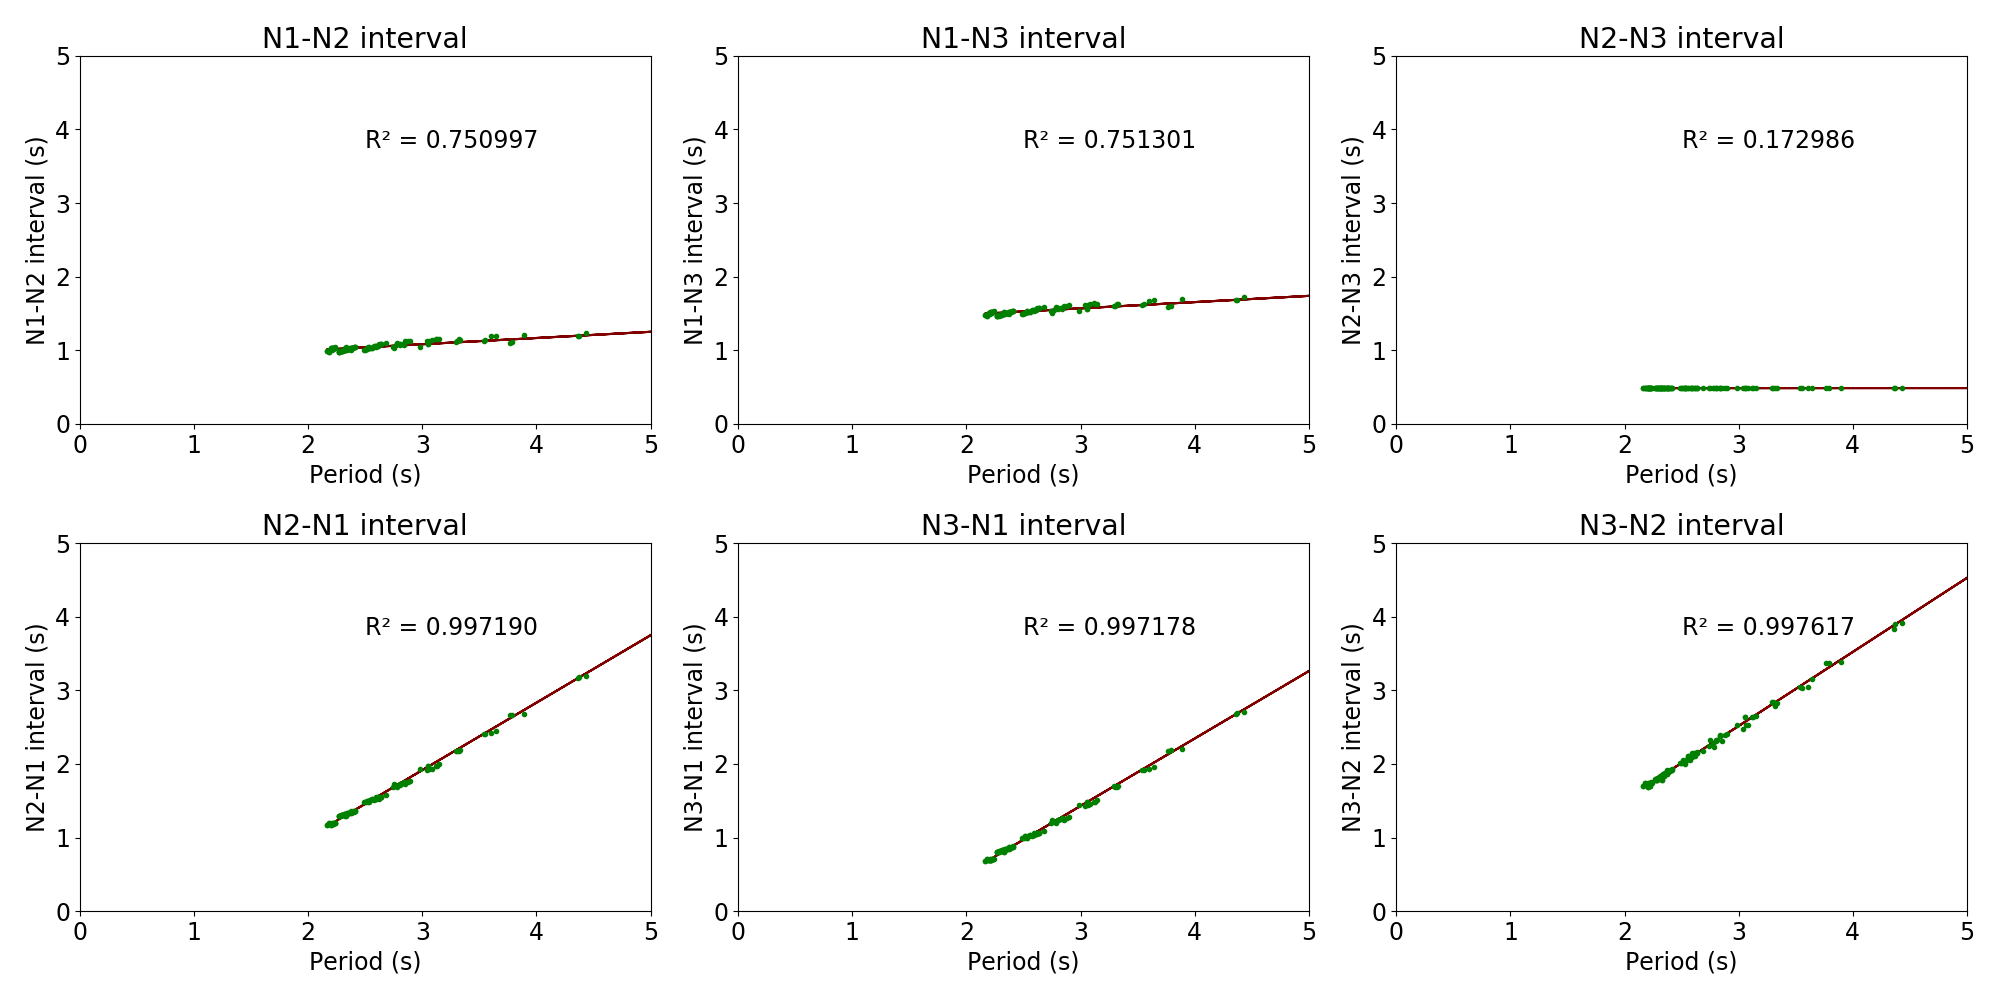
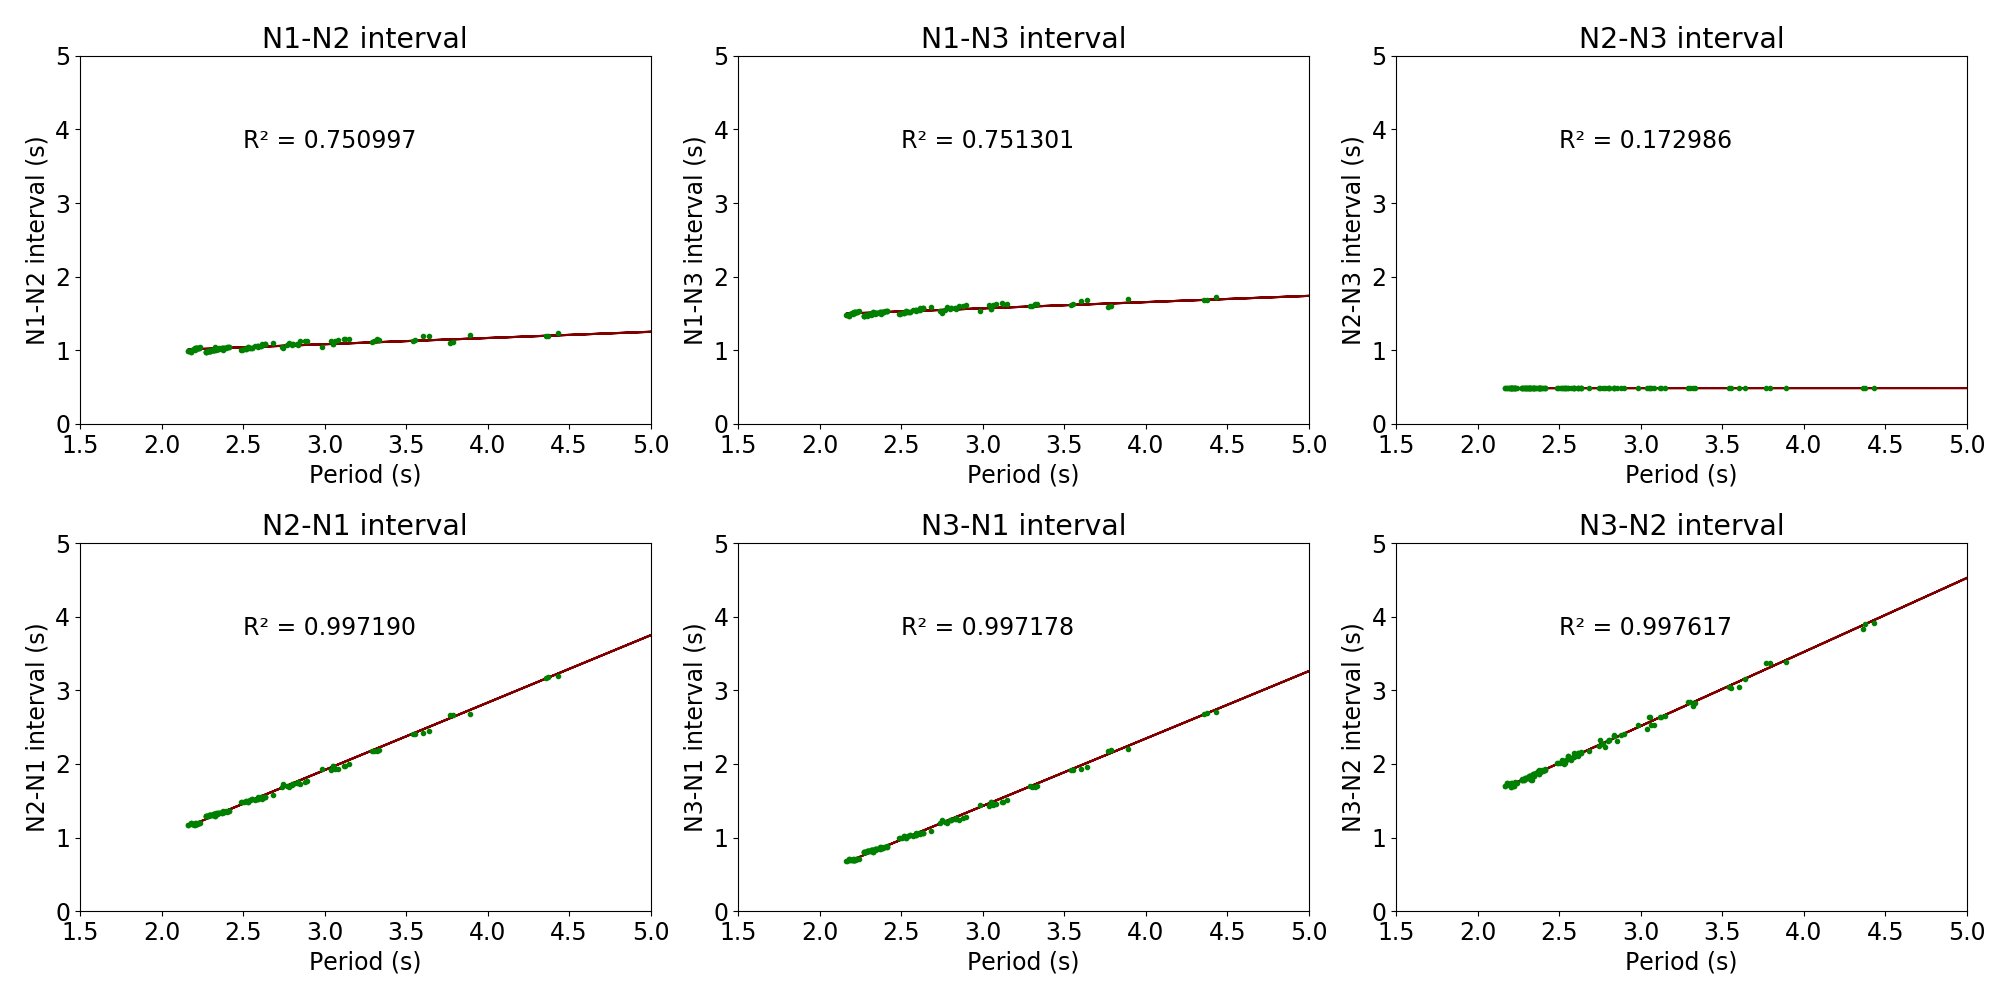
changes in detect_events.py: now the event is detected by IBI value, tested with NX_05_long.asc

diff --git a/burst_charact.py b/burst_charact.py
@@ -57,23 +57,42 @@ N3t = 'N3t'
 # # path = file_name +"/"
 path = "../model/no_variability/"
 
-path = "../model/N1m/"
 # path = "../model/SO/"
+path = "../model/N1m/"
 # path = "../model/N3t/test17/"
 
 
 if len(sys.argv) >2:
 	path = sys.argv[1]
 	file_name = sys.argv[2]
+	time_scale= int(sys.argv[3])
 else:
+	file_name = "so_test19"
 	file_name = "test1"
+	# file_name = "n3t_test17"
+	# time_scale = 10000
+	time_scale = 1000
+	# time_scale = 1000
+
+
+# python3 burst_charact.py ../model/N3t/test17/ n3t_test17 1000; python3 burst_charact.py ../model/SO/ so_test19 10000;python3 burst_charact.py ../model/N1m/ test1 1000
+
+
 
 path+= file_name + "/"
 
 
-N1m_data = read_model_burst_path(path+"N1M",scale=1000)
-N2v_data = read_model_burst_path(path+"N2v",scale=1000)
-N3t_data = read_model_burst_path(path+"N3t",scale=1000)
+
+N1m_data = read_model_burst_path(path+"N1M",scale=time_scale)
+N2v_data = read_model_burst_path(path+"N2v",scale=time_scale)
+N3t_data = read_model_burst_path(path+"N3t",scale=time_scale)
+
+
+print("-------",len(N1m_data),len(N2v_data),len(N3t_data))
+# N1m_data = N1m_data[:len(N1m_data)//2]
+# N2v_data = N2v_data[:len(N2v_data)//2]
+# N3t_data = N3t_data[:len(N3t_data)//2]
+
 
 print(len(N1m_data),len(N2v_data),len(N3t_data))
 # #Adjust burst to periods
@@ -137,24 +156,25 @@ plt.savefig("./results_invariant_tests/images/"+file_name+"_boxplot.png")
 
 
 
-####################################
-########  CORRELATIONS  ############
-####################################
+# ####################################
+# ########  CORRELATIONS  ############
+# ####################################
 
 period = N1m_interv[PER]
 print(period.shape,N3t_interv[DUR].shape)
 
 plt.figure(figsize=(20,5))
-ran = (0,5)
+ran_x = (1.5,5)
+ran_y = (0,5)
 
 plt.subplot(1,3,1)
-plot_corr(period,N1m_interv[DUR][:-1],"Period (s)","Duration of "+N1m +" (s)",ran,False,color='blue')
+plot_corr(period,N1m_interv[DUR][:-1],"Period (s)","Duration of "+N1m +" (s)",ran_x,ran_y,False,color='blue')
 
 plt.subplot(1,3,2)
-plot_corr(period,N2v_interv[DUR][:-1],"Period (s)","Duration of "+N2v +" (s)",ran,False,color='blue')
+plot_corr(period,N2v_interv[DUR][:-1],"Period (s)","Duration of "+N2v +" (s)",ran_x,ran_y,False,color='blue')
 
 plt.subplot(1,3,3)
-plot_corr(period,N3t_interv[DUR][:-1],"Period (s)","Duration of "+N3t +" (s)",ran,False,color='blue')
+plot_corr(period,N3t_interv[DUR][:-1],"Period (s)","Duration of "+N3t +" (s)",ran_x,ran_y,False,color='blue')
 
 
 plt.tight_layout()
@@ -166,15 +186,15 @@ plt.show()
 # # print(period.shape,N3t_interv[DUR].shape)
 
 # # plt.figure(figsize=(20,5))
-# # ran = (0,90.0)
+# # ran_x = (0,90.0)
 # # plt.subplot(1,3,1)
-# # plot_corr(period,N1m_interv[IBI],"Period (s)","IBI "+N1m +" (s)",ran,False,color='blue')
+# # plot_corr(period,N1m_interv[IBI],"Period (s)","IBI "+N1m +" (s)",ran_x,ran_y,False,color='blue')
 
 # # plt.subplot(1,3,2)
-# # plot_corr(period,N2v_interv[IBI],"Period (s)","IBI "+N2v +" (s)",ran,False,color='blue')
+# # plot_corr(period,N2v_interv[IBI],"Period (s)","IBI "+N2v +" (s)",ran_x,ran_y,False,color='blue')
 
 # # plt.subplot(1,3,3)
-# # plot_corr(period,N3t_interv[IBI],"Period (s)","IBI "+N3t +" (s)",ran,False,color='blue')
+# # plot_corr(period,N3t_interv[IBI],"Period (s)","IBI "+N3t +" (s)",ran_x,ran_y,False,color='blue')
 
 
 # # plt.tight_layout()
@@ -187,24 +207,24 @@ plt.show()
 period = N1m_interv[PER]
 
 plt.figure(figsize=(20,10))
-#ran = (-1,90.0)
+#ran_x = (-1,90.0)
 plt.subplot(2,3,1)
-plot_corr(period,N1N2[INTERVAL][:-1],"Period (s)","N1-N2 interval (s)",ran,False,color='green')
+plot_corr(period,N1N2[INTERVAL][:-1],"Period (s)","N1-N2 interval (s)",ran_x,ran_y,False,color='green')
 
 plt.subplot(2,3,4)
-plot_corr(period,N2N1[INTERVAL],"Period (s)","N2-N1 interval (s)",ran,False,color='green')
+plot_corr(period,N2N1[INTERVAL],"Period (s)","N2-N1 interval (s)",ran_x,ran_y,False,color='green')
 
 plt.subplot(2,3,2)
-plot_corr(period,N1N3[INTERVAL][:-1],"Period (s)","N1-N3 interval (s)",ran,False,color='green')
+plot_corr(period,N1N3[INTERVAL][:-1],"Period (s)","N1-N3 interval (s)",ran_x,ran_y,False,color='green')
 
 plt.subplot(2,3,5)
-plot_corr(period,N3N1[INTERVAL],"Period (s)","N3-N1 interval (s)",ran,False,color='green')
+plot_corr(period,N3N1[INTERVAL],"Period (s)","N3-N1 interval (s)",ran_x,ran_y,False,color='green')
 
 plt.subplot(2,3,3)
-plot_corr(period,N2N3[INTERVAL][:-1],"Period (s)","N2-N3 interval (s)",ran,False,color='green')
+plot_corr(period,N2N3[INTERVAL][:-1],"Period (s)","N2-N3 interval (s)",ran_x,ran_y,False,color='green')
 
 plt.subplot(2,3,6)
-plot_corr(period,N3N2[INTERVAL],"Period (s)","N3-N2 interval (s)",ran,False,color='green')
+plot_corr(period,N3N2[INTERVAL],"Period (s)","N3-N2 interval (s)",ran_x,ran_y,False,color='green')
 
 
 plt.tight_layout()
@@ -215,24 +235,25 @@ plt.show()
 period = N1m_interv[PER]
 
 plt.figure(figsize=(20,10))
-ran = (-1,5.0)
+ran_x = (1.5,5.0)
+ran_y = (-0.95,5.0)
 plt.subplot(2,3,1)
-plot_corr(period,N1N2[DELAY][:-1],"Period (s)","N1-N2 delay (s)",ran,False,color='brown')
+plot_corr(period,N1N2[DELAY][:-1],"Period (s)","N1-N2 delay (s)",ran_x,ran_y,False,color='brown')
 
 plt.subplot(2,3,4)
-plot_corr(period,N2N1[DELAY],"Period (s)","N2-N1 delay (s)",ran,False,color='brown')
+plot_corr(period,N2N1[DELAY],"Period (s)","N2-N1 delay (s)",ran_x,ran_y,False,color='brown')
 
 plt.subplot(2,3,2)
-plot_corr(period,N1N3[DELAY][:-1],"Period (s)","N1-N3 delay (s)",ran,False,color='brown')
+plot_corr(period,N1N3[DELAY][:-1],"Period (s)","N1-N3 delay (s)",ran_x,ran_y,False,color='brown')
 
 plt.subplot(2,3,5)
-plot_corr(period,N3N1[DELAY],"Period (s)","N3-N1 delay (s)",(-1,5.0),False,color='brown')
+plot_corr(period,N3N1[DELAY],"Period (s)","N3-N1 delay (s)",ran_x,ran_y,False,color='brown')
 
 plt.subplot(2,3,3)
-plot_corr(period,N2N3[DELAY][:-1],"Period (s)","N2-N3 delay (s)",ran,False,color='brown')
+plot_corr(period,N2N3[DELAY][:-1],"Period (s)","N2-N3 delay (s)",ran_x,ran_y,False,color='brown')
 
 plt.subplot(2,3,6)
-plot_corr(period,N3N2[DELAY],"Period (s)","N3-N2 delay (s)",ran,False,color='brown')
+plot_corr(period,N3N2[DELAY],"Period (s)","N3-N2 delay (s)",ran_x,ran_y,False,color='brown')
 
 
 

diff --git a/detect_events.py b/detect_events.py
@@ -16,7 +16,13 @@ path = file_name
 
 #Read header 
 f = open(path)
+
 headers = f.readline().split()
+# f.readline()
+# f.readline()
+# f.readline()
+# f.readline()
+# f.readline()
 print(headers)
 f.close()
 
@@ -27,8 +33,11 @@ os.system("mkdir -p "+path[:-4])
 # for neu_name in ['N1M','N2v']:
 # for neu_name in ['SO']:
 for neu_name in ['SO','N1M','N2v','N3t']:
+# for neu_name in ['N3t']:
+	#-------------------------------------------------------
 	#Read and parse data
-
+	#-------------------------------------------------------
+	print("Analysing neuron: ",neu_name)
 	data = pd.read_csv(path, delimiter = " ", names=headers,skiprows=1)
 	neuron = data[neu_name]
 	time = data['t']
@@ -40,7 +49,9 @@ for neu_name in ['SO','N1M','N2v','N3t']:
 	neuron = np.gradient(neuron) #Neuron gradient to ignore drift
 
 
+	#-------------------------------------------------------
 	#Obtain threshold as a 1/3 of max spike value
+	#-------------------------------------------------------
 
 	mx = max(abs(neuron))
 	th_u = mx/3
@@ -51,13 +62,18 @@ for neu_name in ['SO','N1M','N2v','N3t']:
 	print("threshold value: ",th_u)
 
 
+	#-------------------------------------------------------
 	#Get spikes := neuron values in threshold range
+	#-------------------------------------------------------
+
 	# spk = time[np.where(neuron<th_l)]
 	spk = time[np.where(neuron>th_u)]
 
 	# print(len(spk))
 
+	#-------------------------------------------------------
 	#Compute ISI and IBI
+	#-------------------------------------------------------
 
 	diff = spk[1:] - spk[:-1] #Intervals between events
 	diff_sor = np.sort(diff) #Intervals sorted 
@@ -69,39 +85,68 @@ for neu_name in ['SO','N1M','N2v','N3t']:
 
 	# print(len(diff))
 
-
+	#-------------------------------------------------------
 	#Detect 3 types of intervals --> artefact, ISI and IBI
+	#	get isi_max as the previous value before IBI.
+	#-------------------------------------------------------
 
+	# plt.plot(spk,np.ones(spk.shape)*th_u,'.')
+	# # plt.plot(events,np.zeros(events.shape),'.')
+	# plt.plot(time,neuron)
+
+	# plt.show()
+
+	# diff_sor = diff_sor[np.where(diff_sor[1:]-diff_sor[:-1] > diff_sor[:-1]*1.1)]
+	print(len(diff_sor))
 	intervals = []
-	for d,prev in zip(diff_sor[1:],diff_sor[:-1]):
-		if(intervals != [] and abs(d-prev) > prev*2): #IBI section
-			intervals.append(d)
-		if(abs(d-prev) > prev*10): #Artefact and ISI section
+	for inx,(d,prev) in enumerate(zip(diff_sor[1:],diff_sor[:-1])):
+		# if(intervals != [] and abs(d-prev) > prev*2): #IBI section
+		# 	intervals.append(d)
+		# 	print("A",inx,d,diff_sor[inx-1],diff_sor[inx+1],diff_sor[-1])
+		if(d > prev*1.5): #Artefact and ISI section
 			# print("Solved:",d,prev)
-			inx = np.where(diff_sor==d)
-			# print(inx,diff_sor[inx[0]-1],diff_sor[inx[0]+1],diff_sor[-1])
+			# inx = np.where(diff_sor==d)
+			# print("B",inx,d,diff_sor[inx-1],diff_sor[inx-10:inx],diff_sor[inx+1],diff_sor[-1],diff_sor[-2])
+			# print(diff_sor[-300:])
 			art = prev
 			isi = d
+			isi_max = diff_sor[inx-1]
 			if(intervals ==[]):
 				intervals.append(prev)
 			intervals.append(d)
 
-	print("artefact,ISI and IBI: ",intervals)
+	# print("artefact,ISI and IBI: ",intervals)
 	art,isi,ibi = intervals[:3]
+	# art,isi = intervals[:2]
 
+	isi = isi_max
+	# isi = 222.42
+	print("ISI (max):",isi,"IBI (min):",ibi)
 
 	# Get on and off events (init and end burst) 
 	# 		from spikes array and intervals ISI, IBI
 	events = []
-	# events.append(spk[0])
+	events.append(spk[0])
 
+	# for i,p in enumerate(spk):
+	# 	if(i>1 and i<spk.shape[0]-1):
+	# 		if(abs(spk[i]-spk[i-1]) <= isi and abs(spk[i+1]-spk[i]) >= ibi): #Off event: ibi after isi
+	# 			events.append(p)
+	# 		elif(abs(spk[i]-spk[i-1]) >= ibi and abs(spk[i+1]-spk[i]) <= isi): #On event: isi after ibi
+	# 			events.append(p)
+
+	# for i,p in enumerate(spk):
+	# 	if(i>1 and i<spk.shape[0]-1):
+	# 		if(abs(spk[i]-spk[i-1]) <= isi and abs(spk[i+1]-spk[i]) > isi): #Off event: ibi after isi
+	# 			events.append(p)
+	# 		elif(abs(spk[i]-spk[i-1]) > isi and abs(spk[i+1]-spk[i]) <= isi): #On event: isi after ibi
+	# 			events.append(p)
 	for i,p in enumerate(spk):
 		if(i>1 and i<spk.shape[0]-1):
-			if(abs(spk[i]-spk[i-1]) <= isi and abs(spk[i+1]-spk[i]) >= ibi): #Off event: ibi after isi
+			if(abs(spk[i]-spk[i-1]) >= ibi and abs(spk[i+1]-spk[i]) < ibi): #Off event: ibi after isi
 				events.append(p)
-			elif(abs(spk[i]-spk[i-1]) >= ibi and abs(spk[i+1]-spk[i]) <= isi): #On event: isi after ibi
+			elif(abs(spk[i]-spk[i-1]) < ibi and abs(spk[i+1]-spk[i]) >= ibi): #On event: isi after ibi
 				events.append(p)
-
 
 
 	events =np.array(events)
@@ -117,7 +162,7 @@ for neu_name in ['SO','N1M','N2v','N3t']:
 	plt.plot(events,np.zeros(events.shape),'.')
 	plt.plot(time,neuron)
 	plt.savefig(path[:-4]+"/"+neu_name+".png")
-	plt.show()
+	# plt.show()
 
 	save_events(events,path[:-4]+"/"+neu_name+"_burst.txt",split=True)
 

diff --git a/charact_utils.py b/charact_utils.py
@@ -2,7 +2,7 @@ import numpy as np
 import matplotlib.pyplot as plt
 plt.rcParams.update({'font.size': 17})
 from matplotlib import colors as mcolors
-
+import statistics 
 from scipy import signal
 import os
 from sklearn.linear_model import LinearRegression
@@ -53,13 +53,13 @@ def plot_hists(charac,neuron):
 	plt.show()
 
 
-def plot_corr(x,y,title1,title2,ran,show=True,color='b'):
+def plot_corr(x,y,title1,title2,ran_x,ran_y,show=True,color='b'):
 
 	r_sq,Y_pred = do_regression(x,y,False)
 
-	max_ = ran[1]
-	plt.ylim(ran)
-	plt.xlim(ran)
+	max_ = ran_y[1]
+	plt.ylim(ran_y)
+	plt.xlim(ran_x)
 	plt.title(title2[:-4])
 
 	plt.plot(x, Y_pred, color='maroon')
@@ -82,6 +82,8 @@ def do_regression(x,y,show=True):
 	
 	# slope, intercept, r_value, p_value, std_err = linregress([x[0],x[1]],[y[0],y[1]])
 	# print(slope,intercept)
+	print('CV:',np.std(y)/np.mean(y))
+	print('median:',statistics.median(y))
 	print('coefficient of determination:', r_sq)
 	# print('slope:', model.intercept_)
 
@@ -114,6 +116,9 @@ def plot_intervals_stats(stats,norm=False,pos=False):
 
 
 	colors =[]
+	medians=[]
+	means=[]
+	cvs=[]
 	for key in keys:
 		elem = stats[key]
 		for e in reversed(sorted(elem.keys())):
@@ -131,11 +136,18 @@ def plot_intervals_stats(stats,norm=False,pos=False):
 						intervals.append(stats[key][e]/np.linalg.norm(stats[key][e]))
 				else:
 					intervals.append(stats[key][e])
+					# intervals.append(np.std(stats[key][e])/np.mean(stats[key][e])*100)					
+					cvs.append((np.std(stats[key][e])/np.mean(stats[key][e]))*100)
+					medians.append(statistics.median(stats[key][e])*100)
+					means.append(np.mean(stats[key][e])*100)
 				colors.append(colors_map[e])
 
 
-	plt.figure(figsize=(30,20))
+	plt.figure(figsize=(33,20))
 	bp = plt.boxplot(intervals, showfliers=False,labels=labels,patch_artist=True)
+	# plt.scatter(range(1,len(cvs)+1),cvs)
+	# plt.scatter(range(1,len(cvs)+1),medians)
+	# plt.scatter(range(1,len(cvs)+1),means)
 	# for patch,color in zip(bp['boxes'],sorted_names[10:]):
 	used =[]
 	legends=[]
@@ -150,9 +162,10 @@ def plot_intervals_stats(stats,norm=False,pos=False):
 
 	legends = np.array(legends)
 
-	plt.tick_params(axis='both', labelsize=35)
+	plt.tick_params(axis='both', labelsize=40)
 	plt.xticks(rotation=45, ha='right')
-	plt.ylim(-1,4)
+	plt.ylim(-0.95,4)
+	plt.ylabel("Time intervals (s)",fontsize=50)
 
 	plt.legend(legends[:,0],legends[:,1],fontsize='xx-large')
 
@@ -533,6 +546,7 @@ def analyse(data,neuron,stats,index,plot=False):
 	print(neuron,"\t\t Duration  \t\t   IBI \t\t   Period")
 	print("\tMean: ",np.mean(n_intervals[DUR]),np.mean(n_intervals[IBI]),np.mean(n_intervals[PER]))
 	print("\tStd: ",np.std(n_intervals[DUR]),np.std(n_intervals[IBI]),np.std(n_intervals[PER]))
+	print("\tCV: ",np.std(n_intervals[DUR])/np.mean(n_intervals[DUR]),np.std(n_intervals[IBI])/np.mean(n_intervals[IBI]),np.std(n_intervals[PER])/np.mean(n_intervals[PER]))
 
 	# if plot:
 	# 	plot_hists([dur,ibi,period],neuron)
